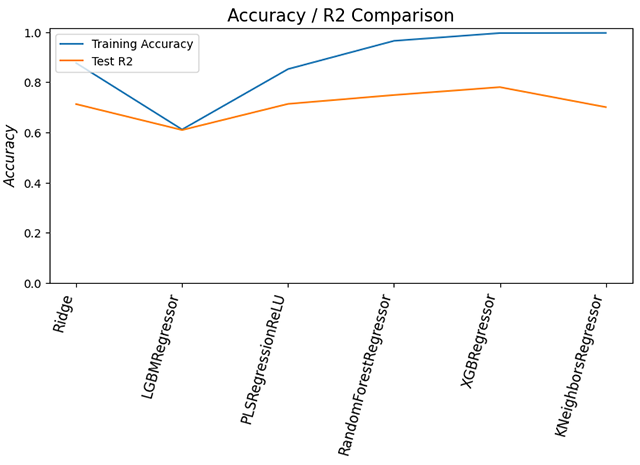
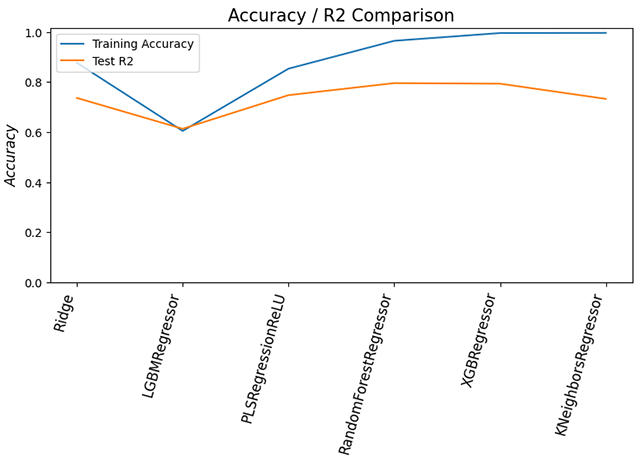
Updates to model

diff --git a/README.md b/README.md
@@ -11,7 +11,7 @@ access the right information to make informed decisions about their food choices
 industries who are reliant on providing accurate nutritional information to consumers, yet this 
 is not always available due to the complexity of food composition and preparation.
 
-Overall, a 78% accuracy has been achieved on predicting the calorie content, Energy (kJ) / per 
+Overall, a 79.5% accuracy has been achieved on predicting the calorie content, Energy (kJ) / per 
 100g, of food ingredient on a broad set of 2893 food ingredients. This is a significant step forward in 
 achieving wider goals of predicting a broader spectrum of nutritional attributes.
 
@@ -135,29 +135,53 @@ through hundreds of iterations to find the optimum parameters.
 
 The following models were evaluated using Mean Squared Error (MSE), Root Mean Squared Error (RMSE), R-squared (R2), and Variance:
 
-|                       | Train Accuracy | Train RMSE |    MSE |    RMSE |       R2 |   Variance |
-|:----------------------|---------------:|-----------:|-------:|--------:|---------:|-----------:|
-| Ridge                 |       0.876325 |    221.559 | 131400 | 362.491 | 0.712666 |   0.714562 |
-| LGBMRegressor         |       0.611449 |     392.71 | 178633 | 422.65  | 0.60938  |   0.610797 |
-| PLSRegressionReLU     |       0.852259 |    242.157 | 131028 | 361.977 | 0.71348  |   0.716765 |
-| RandomForestRegressor |       0.964799 |    118.202 | 114840 | 338.88  | 0.748878 |   0.748959 |
-| XGBRegressor          |       0.995883 |    40.4259 | 100474 | 316.977 | 0.780291 |   0.780765 |
-| KNeighborsRegressor   |       0.996474 |    37.4095 | 136899 | 369.999 | 0.70064  |   0.701494 |
+|                       |   Train_Accuracy |   Train_RMSE |      MSE |    RMSE |       R2 |   Variance |
+|:----------------------|-----------------:|-------------:|---------:|--------:|---------:|-----------:|
+| Ridge                 |         0.876683 |       220.49 |   119161 | 345.197 | 0.736364 |   0.736896 |
+| LGBMRegressor         |          0.60461 |      394.813 |   174858 |  418.16 | 0.613138 |   0.613219 |
+| PLSRegressionReLU     |         0.853306 |      240.483 |   114106 | 337.796 | 0.747548 |   0.748999 |
+| RandomForestRegressor |         0.964715 |      117.943 |  92345.8 | 303.884 | 0.795691 |   0.795889 |
+| XGBRegressor          |         0.995696 |      41.1924 |  93359.7 | 305.548 | 0.793447 |    0.79366 |
+| KNeighborsRegressor   |         0.996304 |      38.1712 |   120835 | 347.614 |  0.73266 |   0.733781 |
 
-The following finding as a result of the model evaluation:
+The following are findings related to the model evaluation:
 
-- **Ridge Regression**: Decent R2 and variance, but higher RMSE and MSE compared to other models.
-- **LGBMRegressor**: Good performance across all metrics, lower RMSE and MSE than Ridge, and decent R2.
-- **PLSRegressionReLU**: Lower performance in accuracy and higher RMSE and MSE than some other models, though R2 and variance are reasonable.
-- **RandomForestRegressor**: Excellent performance in terms of RMSE and MSE, and the highest R2 and variance, showing strong predictive power and consistency.
-- **XGBRegressor**: Outstanding performance with the lowest RMSE and MSE, and the highest R2 and variance, suggesting excellent predictive accuracy and consistency.
-- **KNeighborsRegressor**: Despite having the same high train accuracy and low RMSE as XGBRegressor, it has a significantly higher MSE and the lowest R2 and variance, indicating potential issues in generalizing.
+1. **Ridge Regression**:
+   - Moderate training accuracy
+   - Moderate RMSE values on both training and test data
+   - Good (R2) score, indicating a decent amount of variance explained
 
-The following graph shows the accuracy of the models:
+2. **LGBMRegressor**:
+   - Lower training accuracy
+   - Higher RMSE values, indicating larger errors
+   - Lower (R2) score, which shows it explains less variance relative to other models
+
+3. **PLSRegressionReLU**:
+   - High training accuracy
+   - Moderate RMSE values
+   - Very good (R2) score, indicating that it explains a substantial amount of variance
+
+4. **RandomForestRegressor**:
+   - Very high training accuracy
+   - Lowest RMSE values among all models, showing smaller prediction errors
+   - The highest (R2) score, indicating the best performance in terms of explaining variance
+
+5. **XGBRegressor**:
+   - Extremely high training accuracy
+   - Very low training RMSE but slightly higher test RMSE compared to RandomForestRegressor
+   - High (R2) score, similar to RandomForestRegressor but slightly lower
+
+6. **KNeighborsRegressor**:
+   - Highest training accuracy
+   - Very low training RMSE but higher test RMSE, indicating possible overfitting
+   - Lower (R2) score compared to RandomForestRegressor and XGBRegressor
+
+The following graph shows the Accuracy against R2 score of the models:
 
 ![Model Accuracy Comparison](assets/images/model-accuracy-R2-scores.png "Model Accuracy Comparison")
 
-Overall, there is a good level of accuracy over most of the models. The XGBoost for Regression model has stood out due to its high accuracy and low RMSE. If this overfits on further unseen data then the Random Forest Regressor would be the next best model to use.
+Overall, there is a good level of accuracy from most of the models. The **RandomForestRegressor** 
+appears to be the best choice based on its exceptionally high accuracy, the lowest error metrics (RMSE and MSE), and the highest R2. XGBRegressor is a close second, with excellent performance across all metrics, but slightly lower accuracy and would be a good choice in the case of overfitting.
 
 Please see this [model card](model_card.md "model card") for more detailed information on the final 
 model used within this project.
